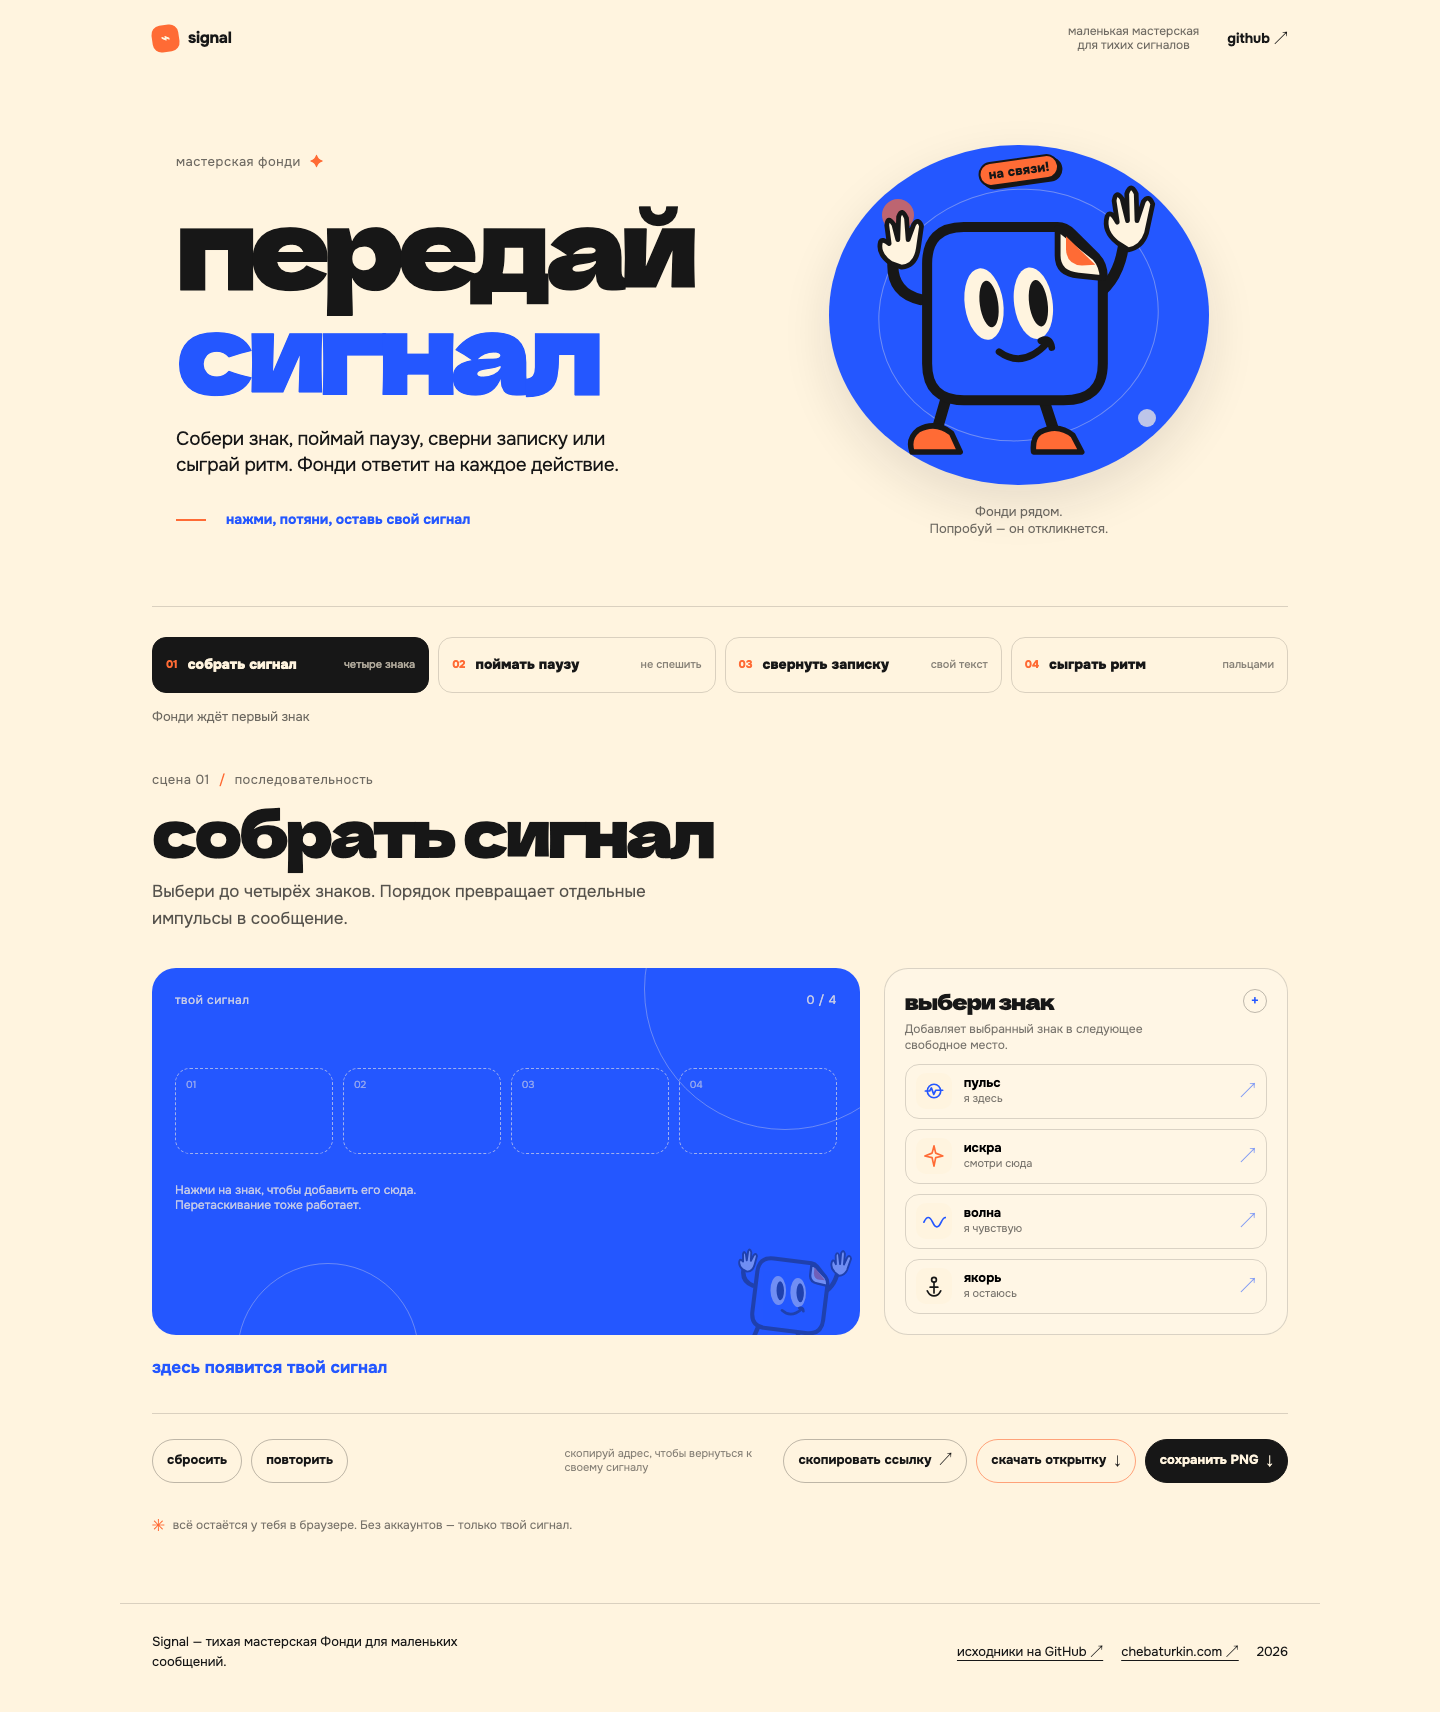
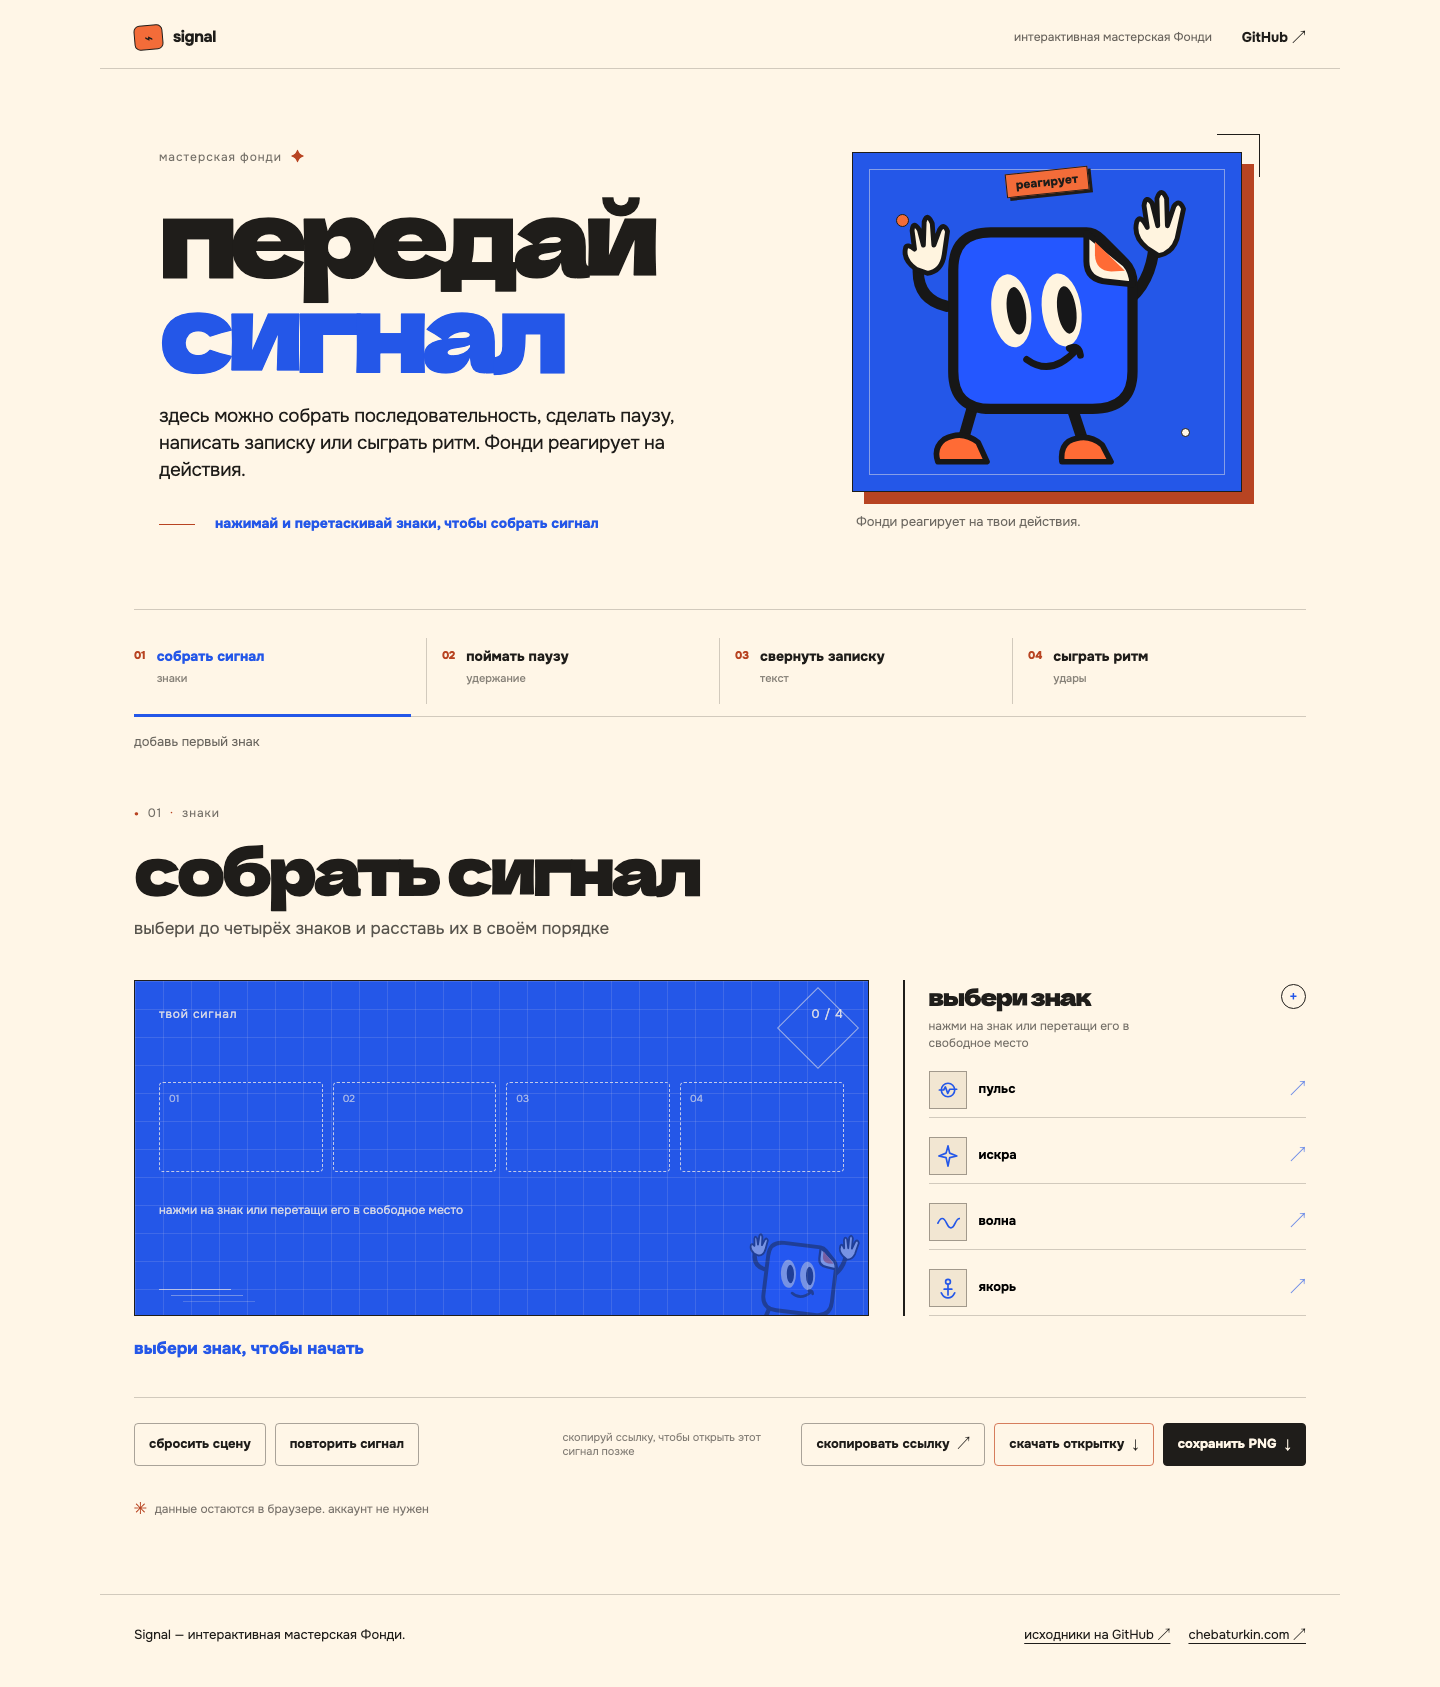
docs: align Signal documentation and preview with redesign

diff --git a/CHANGELOG.md b/CHANGELOG.md
@@ -1,5 +1,13 @@
 # История изменений Signal
 
+## 2026-10-09 — редакционный дизайн мастерской
+
+- Переработаны главный экран, навигация и четыре сцены: добавлены линии,
+  нумерованный указатель и отдельные рабочие поверхности.
+- Уточнены инструкции, сообщения о действиях и подписи локальных экспортов.
+- Сохранены состояние в URL-хэше, клавиатурное управление, reduced motion
+  и скачивание открыток без сервера и внешних API.
+
 ## 2026-10-08 — самостоятельная версия Signal
 
 - Продукт получил собственное имя Signal и отдельную структуру репозитория.

diff --git a/README.md b/README.md
@@ -5,6 +5,9 @@ Signal — самостоятельный визуальный pet-проект 
 паузу, написать записку или сыграть ритм. Страница живёт целиком в браузере:
 без аккаунтов, сервера, аналитики и внешнего API.
 
+Интерфейс устроен как редакционная мастерская: нумерованный указатель ведёт
+к четырём сценам, а у каждой сцены своя рабочая поверхность и подсказки.
+
 ![Signal — мастерская Фонди](docs/signal-preview.png)
 
 ## Запуск

diff --git a/site/README.md b/site/README.md
@@ -4,6 +4,9 @@
 персонаж и проводник: четыре сцены помогают собрать жест, дать паузу,
 упаковать записку и сыграть ритм.
 
+Нумерованная навигация переключает сцены. У каждой сцены своя рабочая
+поверхность; подписи повторения и сообщения о действиях учитывают её режим.
+
 ## Запуск
 
 Из корня репозитория:

diff --git a/docs/superpowers/plans/2026-10-09-signal-editorial-redesign.md b/docs/superpowers/plans/2026-10-09-signal-editorial-redesign.md
@@ -8,6 +8,11 @@
 
 **Tech Stack:** Static HTML, CSS, vanilla JavaScript, local SVG mascot, local Dela/Onest fonts, Python build, Node tests.
 
+**Verification, 2026-10-09:** The build succeeded; 2 Python tests and 9 Node
+tests passed. `site/verify.py` passed at 320, 390, 768, 1024, and 1440px with
+9 interaction checks. Desktop and mobile screenshots were inspected, and the
+README preview was refreshed from the verified desktop build.
+
 ---
 
 ### Task 1: Rewrite the authored structure and interface copy
